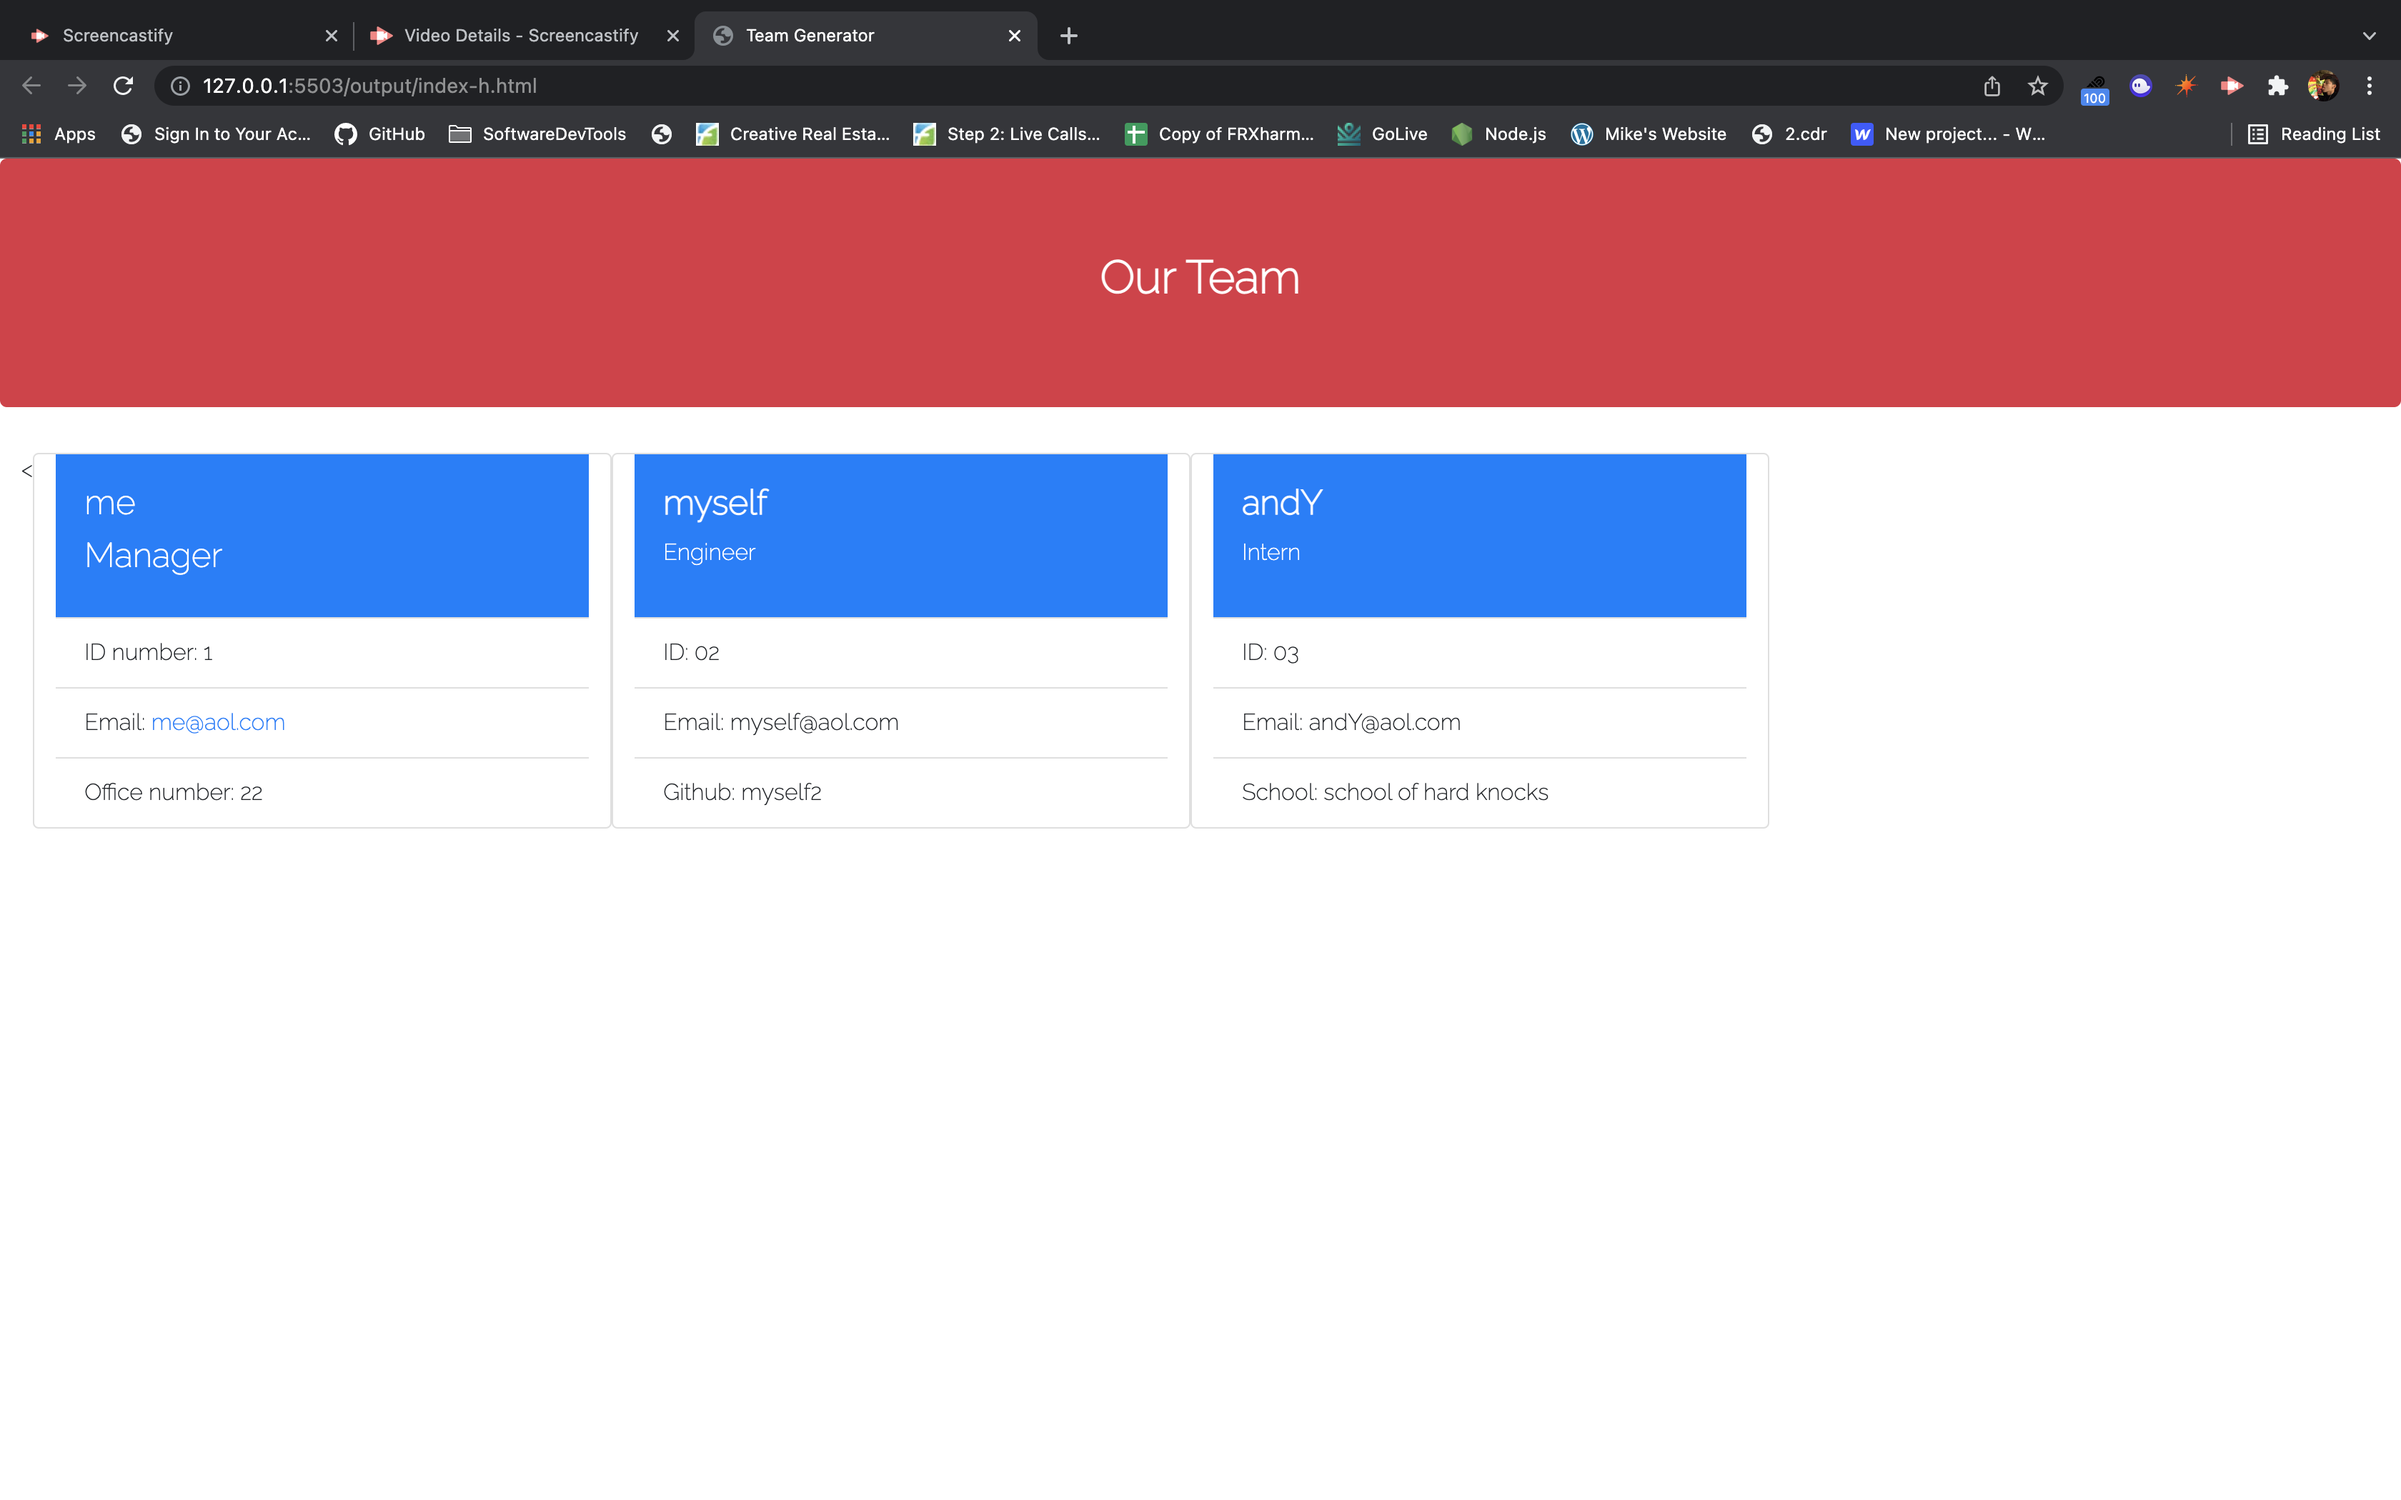
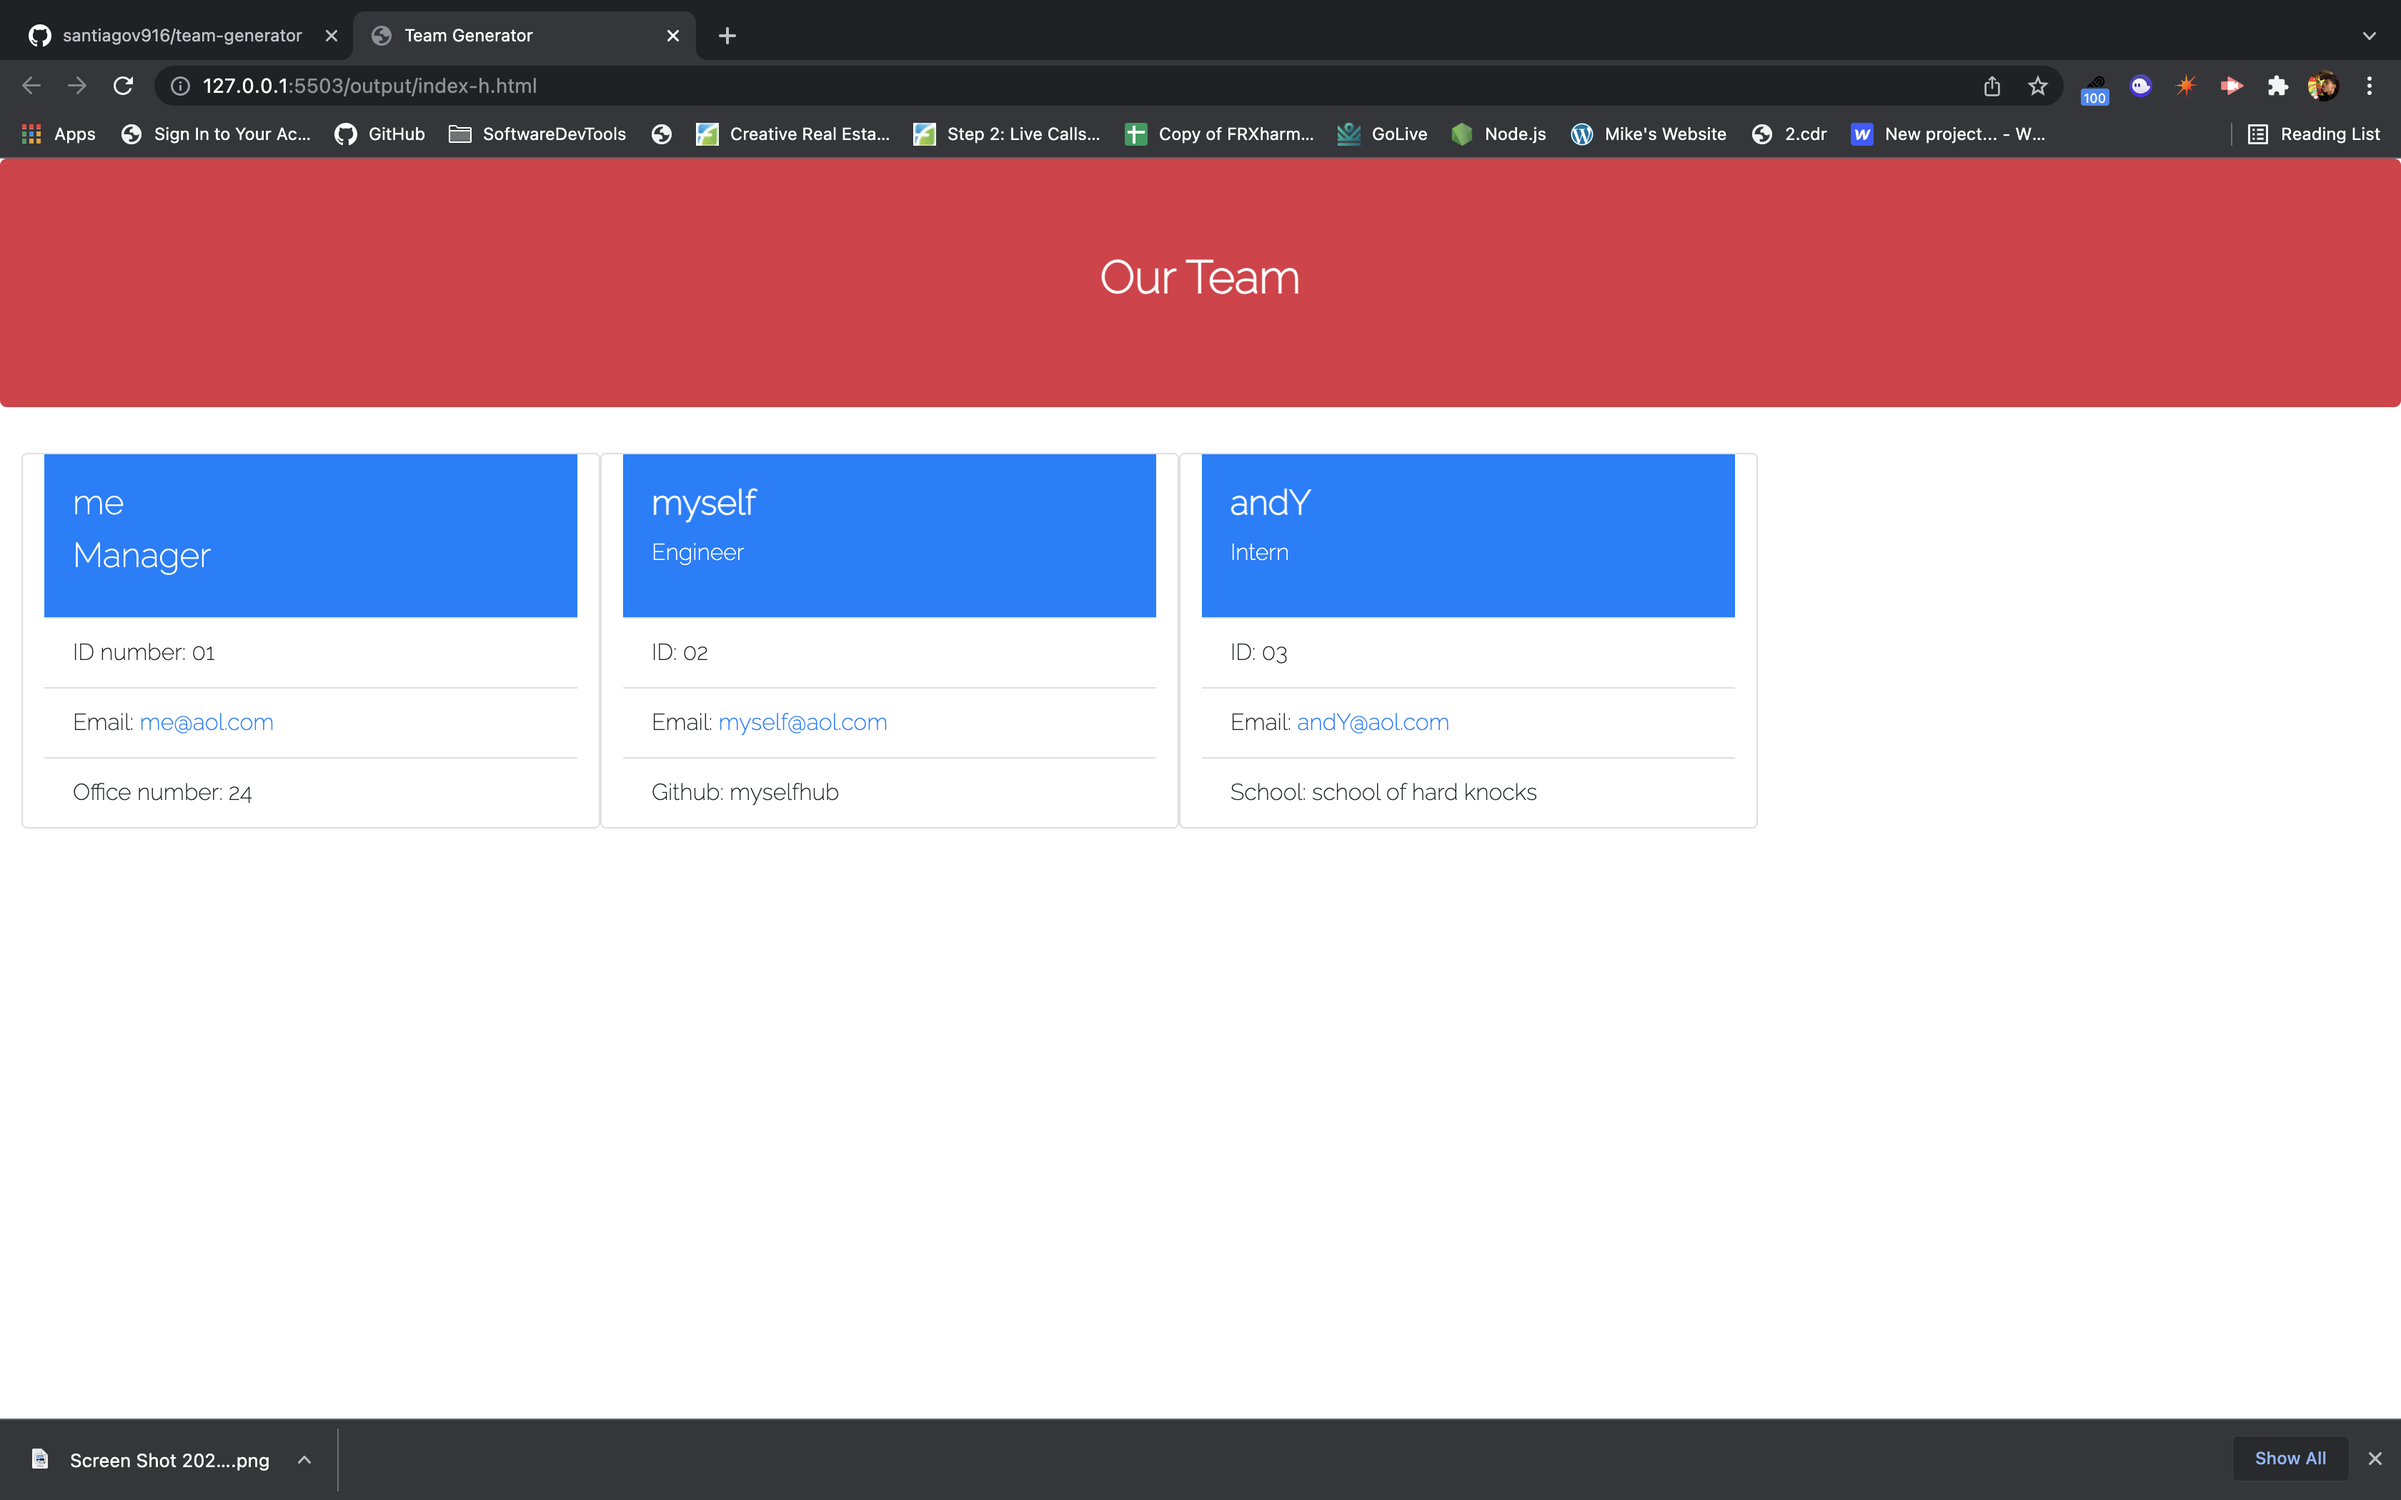
final touches finally

diff --git a/output/index-h.html b/output/index-h.html
@@ -31,17 +31,17 @@
             
             <div class="row col-12">
             
-            <<div class="card m-card col-3">
+            <div class="card m-card col-3">
         <div class="card-body bg-primary text-white">
-        <h4 >me</h4>
+        <h4>me</h4>
         <h4 class=" bg-primary text-white"><i class="fas fa-mug-hot  "></i>  
         Manager</h4>
         <p class="card-text"></p>
         </div>
         <ul class="list-group list-group-flush">
-        <li class="list-group-item  ID" >ID number: 1</li>
+        <li class="list-group-item  ID" >ID number: 01</li>
         <li class="list-group-item email" > Email:   <a href="mailto:me@aol.com">me@aol.com</a></li>
-        <li class="list-group-item " >Office number:  22</li>
+        <li class="list-group-item " >Office number:  24</li>
         </ul>
     </div>
             <div class="card m-card col-3">
@@ -51,8 +51,8 @@
         </div>
         <ul class="list-group list-group-flush">
             <li class="list-group-item id">ID: 02 </li>
-            <li class="list-group-item email">Email: myself@aol.com</li>
-            <li class="list-group-item number">Github: myself2</li>
+            <li class="list-group-item email" > Email:   <a href="mailto:myself@aol.com">myself@aol.com</a></li>
+            <li class="list-group-item number">Github: myselfhub</li>
         </ul>
     </div>
             <div class="card m-card col-3">
@@ -62,7 +62,7 @@
         </div>
         <ul class="list-group list-group-flush">
             <li class="list-group-item id">ID: 03</li>
-            <li class="list-group-item email">Email: andY@aol.com</li>
+            <li class="list-group-item email" > Email:   <a href="mailto:andY@aol.com">andY@aol.com</a></li>
             <li class="list-group-item number">School: school of hard knocks</li>
         </ul>
     </div>
